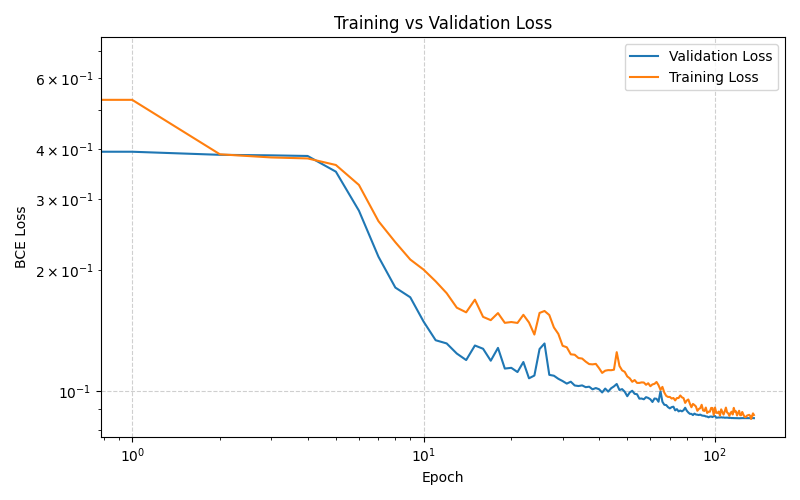
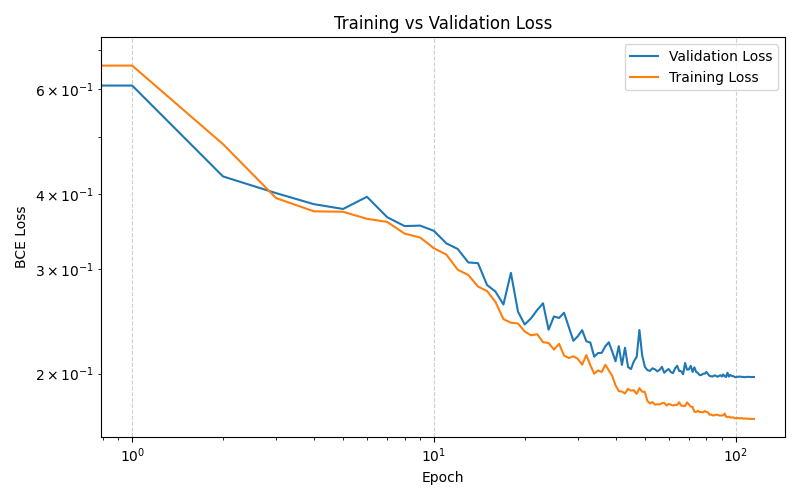
Modification of cnn.py to make the number of parameters similar to dnn.py and reduced the dense part

diff --git a/Neural_Network/CNN.py b/Neural_Network/CNN.py
@@ -79,17 +79,22 @@ def train_cnn(tables, num_sets, num_cards, num_attributes):
     """
 
     inputs = Input(shape=(num_cards, num_attributes, 1))
-    hidden = Conv2D(32, (1, 2), activation='relu', padding='same')(inputs)
+    """
+    hidden = Conv2D(128, (1, 2), activation='relu', padding='same')(inputs)
     hidden = Conv2D(64, (1, 2), activation='relu', padding='same')(hidden)
-    hidden = Conv2D(128, (1, 2), activation='relu', padding='same')(hidden)
+    hidden = Conv2D(32, (1, 2), activation='relu', padding='same')(hidden)
     hidden = MaxPooling2D(pool_size=(1, 2), padding='same')(hidden)
 
     hidden = Flatten()(hidden)
-    hidden = Dense(256, activation='relu')(hidden)
-    hidden = Dropout(0.3)(hidden)
-    hidden = Dense(128, activation='relu')(hidden)
-    hidden = Dropout(0.3)(hidden)
     hidden = Dense(64, activation='relu')(hidden)
+    """
+    hidden = Conv2D(256, (1, 2), activation='relu', padding='same')(inputs)
+    hidden = Conv2D(100, (1, 2), activation='relu', padding='same')(hidden)
+    hidden = Conv2D(32, (1, 2), activation='relu', padding='same')(hidden)
+    hidden = MaxPooling2D(pool_size=(1, 2), padding='same')(hidden)
+
+    hidden = Flatten()(hidden)
+    hidden = Dense(32, activation='relu')(hidden)
 
 
     outputs = Dense(1, activation='sigmoid')(hidden)  # Binary classification output
